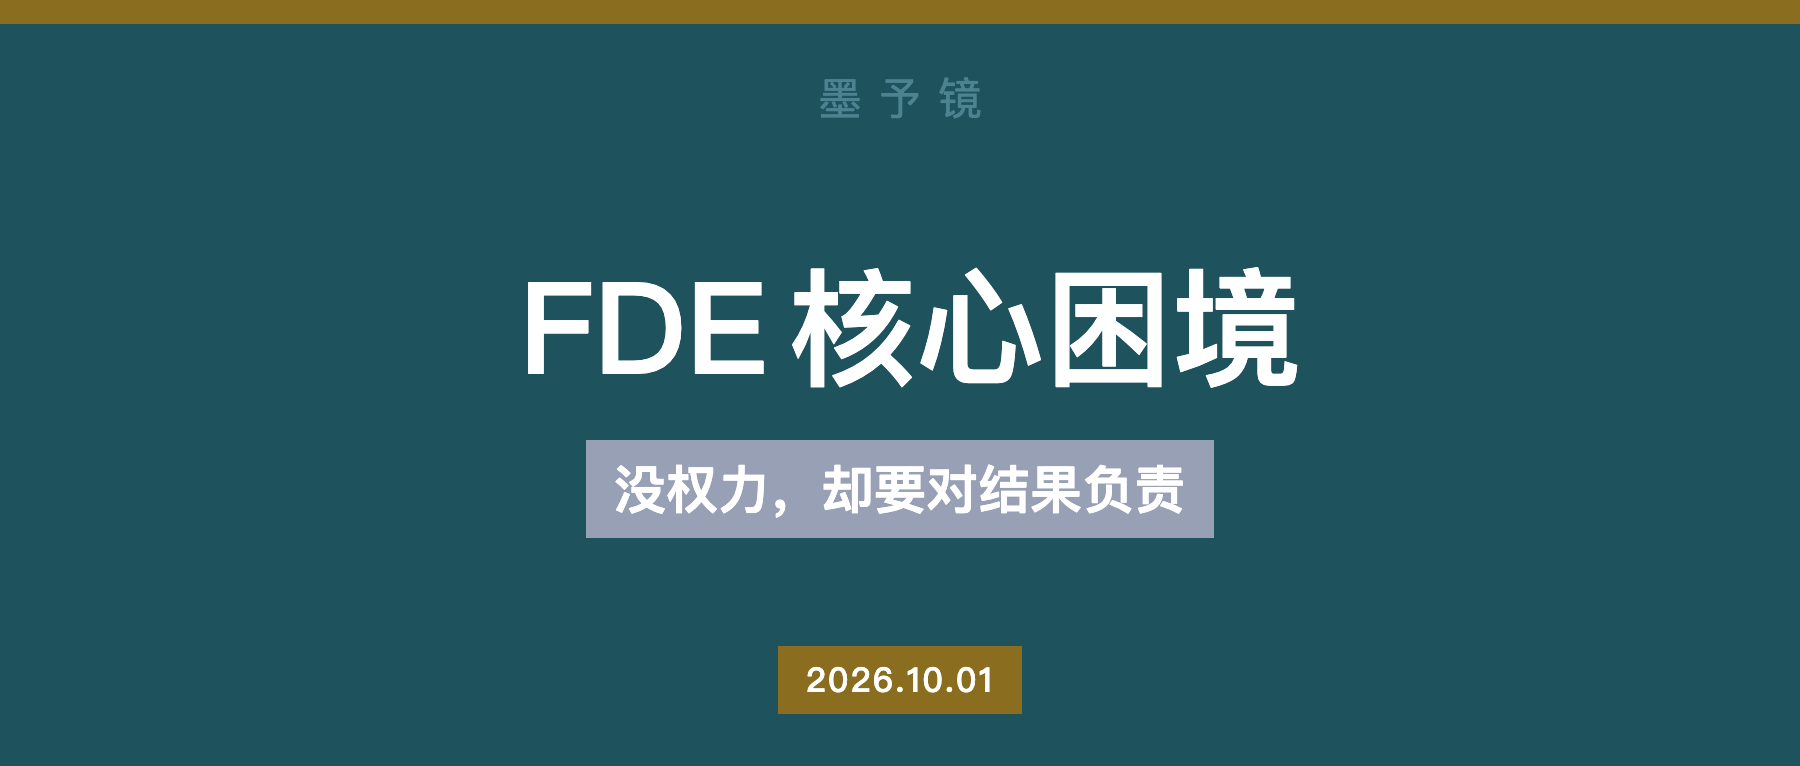
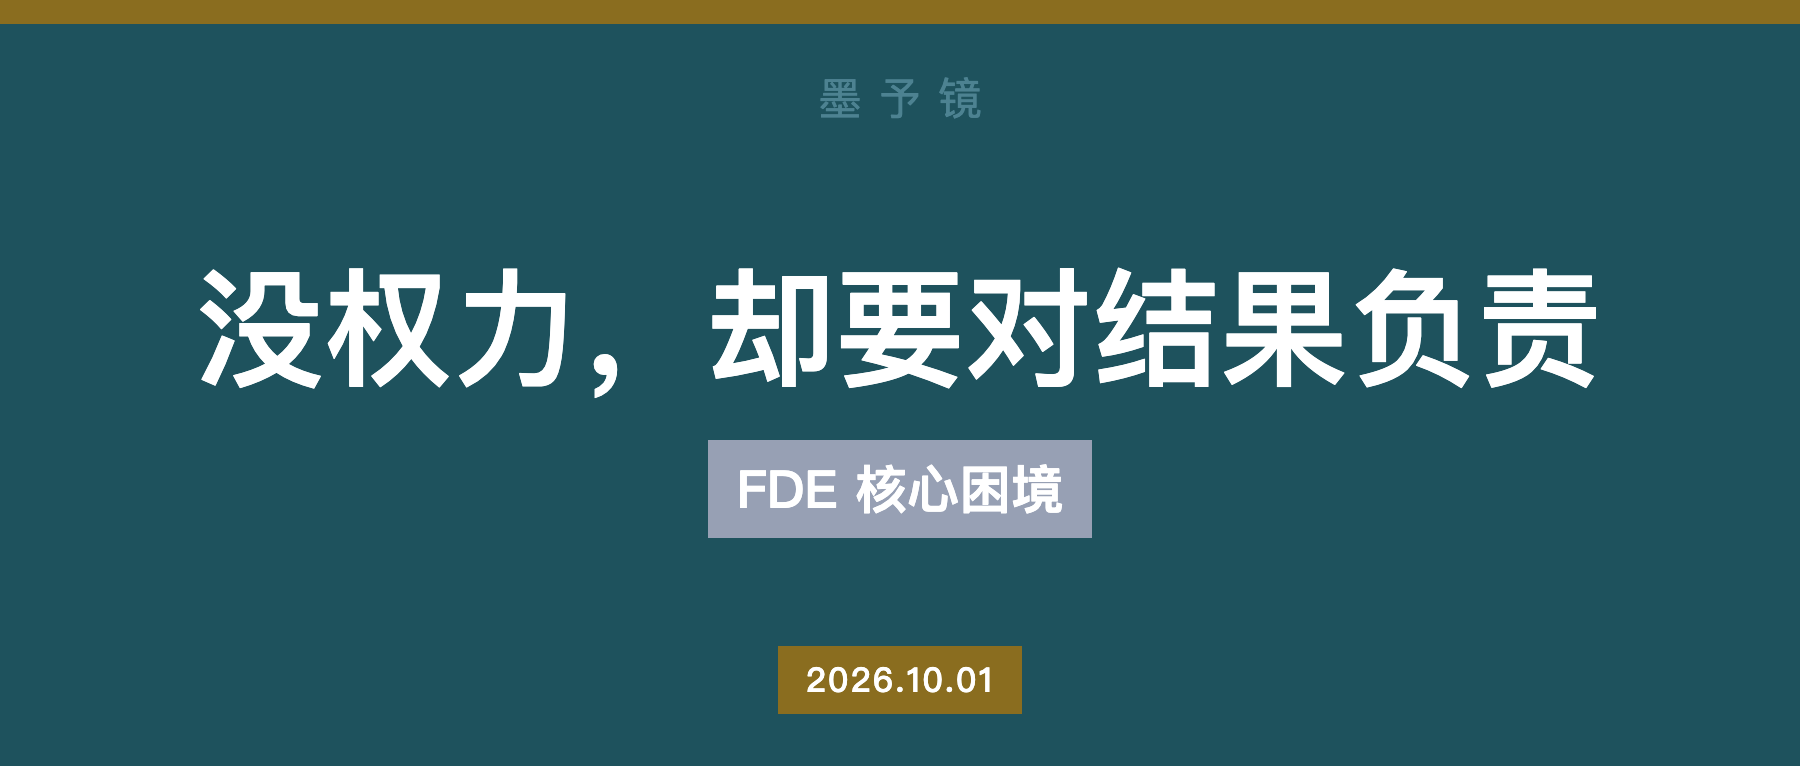
feat(墨予镜): FDE核心困境封面主副标题互换——重点句顶到大字位

Changed region(s): [[0.0933, 0.3303, 0.9022, 0.5104], [0.3111, 0.5705, 0.6844, 0.7206]]

diff --git a/projects/content-matrix/accounts/墨予镜/公众号封面/FDE核心困境-没权力却要对结果负责-cover-assets/wechat-cover-manifest.md b/projects/content-matrix/accounts/墨予镜/公众号封面/FDE核心困境-没权力却要对结果负责-cover-assets/wechat-cover-manifest.md
@@ -1,8 +1,8 @@
 # 公众号封面候选清单
 
 - 文章标题：FDE 核心困境：没权力，却要对结果负责
-- 主标题：FDE 核心困境
-- 副标题：没权力，却要对结果负责
+- 主标题：没权力，却要对结果负责
+- 副标题：FDE 核心困境
 - 日期：2026.10.01
 - 成稿：/Users/xinran/Downloads/dedao/FDE 核心困境：没权力，却要对结果负责-2026年10月01日-来自【得到大脑】.md
 
